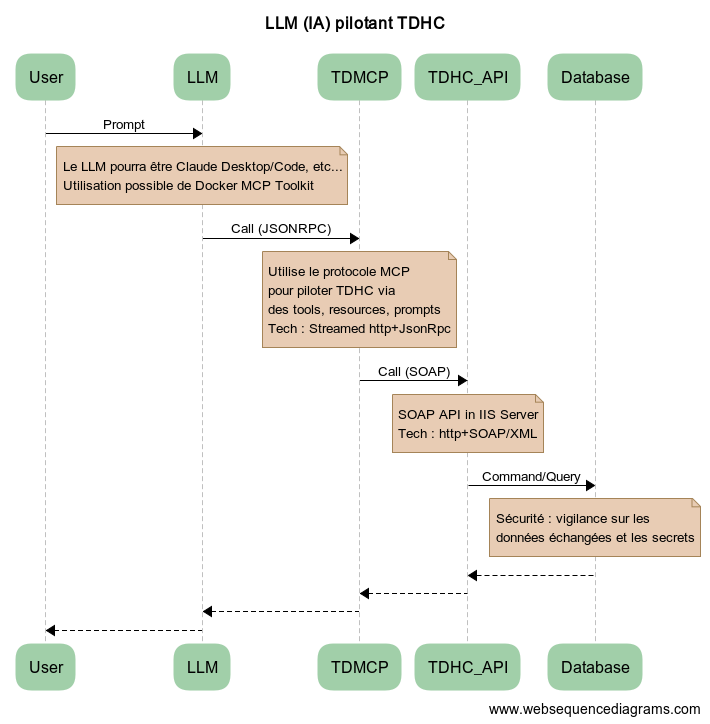
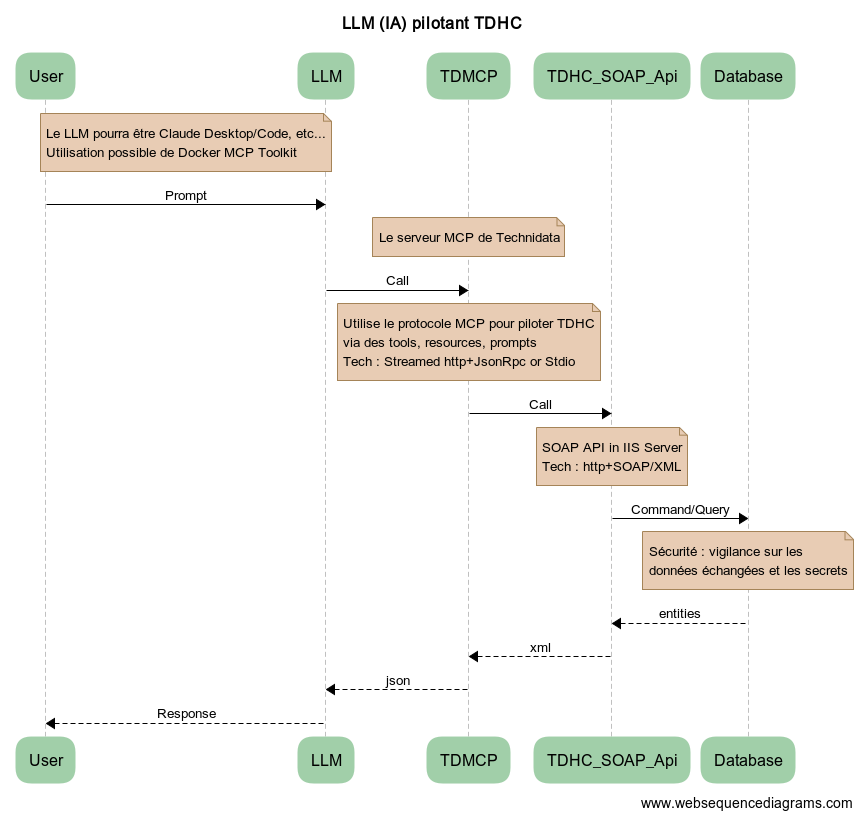
Adapt Diagrams

diff --git a/TDHC/Slides.md b/TDHC/Slides.md
@@ -106,6 +106,8 @@ Utilisation d'une saisie pour demander des informations que notre application se
 
 ## Fonctionnement technique
 
+![LLM_IA_pilotant_TDHC_Full](./Resources/LLM_IA_pilotant_TDHC_Full.png)
+
 # Orchestration pour effectuer plusieurs tâches
 
 ## Objectif Démo
